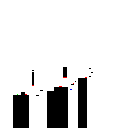
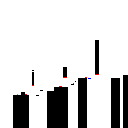
some changes to ghosts

diff --git a/src/ghost.cpp b/src/ghost.cpp
@@ -15,102 +15,12 @@ void Ghost::clear_actions()
 
 bool Ghost::maybe_add_action(double time, Vec2<double> pos, bool grounded)
 {
-    if ((time - m_last_added_action_time) >= (1.0 / m_fps)) {
+    if ((time-m_last_added_action_time) >= (1.0 / m_fps)) {
         add_action(pos, grounded);
         m_last_added_action_time = time;
         return true;
     }
     return false;
-}
-
-void Ghost::save_to_file(std::string path, bool overwrite)
-{
-    if (!overwrite) {
-        // check if file exists
-        std::ifstream file(path);
-        if (file.good()) {
-            SDL_Log("ghost: \"%s\" already exists!", path.c_str());
-            return;
-        }
-    }
-
-    std::ofstream file;
-    file.open(path, std::iostream::out | std::iostream::binary);
-
-    // write fps
-    file.write(reinterpret_cast<const char*>(&m_fps), sizeof(m_fps));
-
-    for (auto& action : m_actions) {
-        // write x and y values
-        file.write(reinterpret_cast<const char*>(&action.m_pos.x), sizeof(action.m_pos.x));
-        file.write(reinterpret_cast<const char*>(&action.m_pos.y), sizeof(action.m_pos.y));
-
-        Uint8 is_grounded = action.m_grounded;
-        file.write(reinterpret_cast<const char*>(&is_grounded), sizeof(is_grounded));
-    }
-
-    file.close();
-    SDL_Log("ghost: saved replay to file \"%s\" (%zu actions)", path.c_str(), m_actions.size());
-}
-
-void Ghost::load_from_file_e(std::string path)
-{
-    auto fs = cmrc::assets::get_filesystem();
-    cmrc::file file;
-
-    try {
-        file = fs.open(ASSETS_PATH + path);
-    } catch (std::system_error) {
-        SDL_Log("ghost: file \"%s\" not found", path.c_str());
-        return;
-    }
-
-    if (file.size() < 1) {
-        SDL_Log("ghost: invalid file \"%s\"", path.c_str());
-        return;
-    }
-
-    const char* data = file.begin();
-
-    clear_actions();
-
-    Vec2<double> current_action;
-    bool grounded = false;
-
-    // read fps
-    m_fps = *reinterpret_cast<const double*>(&data[0]);
-
-    for (size_t i = sizeof(m_fps), val_idx = 0; i < file.size();) {
-        int param = val_idx % 3;
-
-        if (param == 0 && val_idx > 0)
-            add_action(current_action, grounded);
-        if (param <= 1) {
-            // x and y position
-            Sint32 val = *reinterpret_cast<const Sint32*>(&data[i]);
-
-            if (param == 0)
-                current_action.x = val;
-            else if (param == 1)
-                current_action.y = val;
-
-            i += sizeof(val);
-        } else {
-            // grounded
-            Uint8 val = *reinterpret_cast<const Uint8*>(&data[i]);
-            grounded = val;
-            i += sizeof(val);
-        }
-
-        val_idx++;
-    }
-
-    add_action(current_action, grounded);
-
-    SDL_Log("ghost: loaded replay from file %s (%zu actions, %f fps)",
-            path.c_str(),
-            m_actions.size(),
-            m_fps);
 }
 
 void Ghost::draw(SDL_Renderer* renderer, Camera* camera, double time)
@@ -133,6 +43,7 @@ void Ghost::draw(SDL_Renderer* renderer, Camera* camera, double time)
     SDL_Rect rect;
 
     int width = utils::tile_size, height = utils::tile_size * 2;
+    float alpha = 0.2;
 
     if (action_idx < m_actions.size()-1) {
         Vec2<int> next_pos = m_actions.at(action_idx + 1).m_pos;
@@ -147,12 +58,15 @@ void Ghost::draw(SDL_Renderer* renderer, Camera* camera, double time)
         int y = round(utils::lerp(pos.y, next_pos.y, lerp_val));
         rect = { x, y, width, height };
     } else {
+        alpha += (time_at_action(m_actions.size()-1)-time);
+        alpha = utils::clamp<float>(alpha, 0.0, 1.0);
+
         rect = { pos.x, pos.y, width, height };
     }
 
     camera->translate(&rect);
 
     // draw
-    SDL_SetRenderDrawColor(renderer, 0, 0, 0, 64);
+    SDL_SetRenderDrawColor(renderer, 0, 0, 0, alpha * 255);
     SDL_RenderFillRect(renderer, &rect);
 }

diff --git a/src/game.cpp b/src/game.cpp
@@ -42,26 +42,6 @@ void Game::draw_ui(double dt)
             nk_labelf(m_ctx, NK_TEXT_LEFT, "recorded actions: %zu", m_recording_ghost.m_actions.size());
             nk_labelf(m_ctx, NK_TEXT_LEFT, "fps: %f", m_recording_ghost.m_fps);
 
-            nk_layout_row_dynamic(m_ctx, 25, 1);
-            nk_edit_string_zero_terminated(m_ctx,
-                                           NK_EDIT_FIELD,
-                                           m_ui_replay_path,
-                                           sizeof(m_ui_replay_path),
-                                           nk_filter_default);
-
-            nk_layout_row_dynamic(m_ctx, 20, 1);
-            nk_checkbox_label(m_ctx, "Overwrite", &m_ui_overwrite_file);
-            nk_layout_row_dynamic(m_ctx, 25, 1);
-
-            if (nk_button_label(m_ctx, "Save Replay")) {
-                std::string path = m_ui_replay_path;
-
-                if (path.size() == 0)
-                    return;
-
-                m_recording_ghost.save_to_file(path, m_ui_overwrite_file);
-            }
-
             nk_tree_pop(m_ctx);
         }
 
@@ -272,7 +252,6 @@ void Game::load_level()
 {
     utils::tile_size = 48;
     m_level = Level("level1.png");
-    m_playback_ghost.load_from_file_e("level1.run");
     reset();
 }
 
@@ -280,6 +259,8 @@ void Game::reset()
 {
     utils::tile_size = 48;
     m_level_start_time = m_time;
+
+    m_playback_ghost = m_recording_ghost;
     m_recording_ghost.clear_actions();
 
     for (auto& platform : m_level.m_platforms)

diff --git a/src/ghost.h b/src/ghost.h
@@ -32,8 +32,6 @@ public:
     void add_action(Vec2<double> pos, bool grounded);
     void clear_actions();
     bool maybe_add_action(double time, Vec2<double> pos, bool grounded);
-    void save_to_file(std::string path, bool overwrite);
-    void load_from_file_e(std::string path); // loads from embedded assets
     void draw(SDL_Renderer* renderer, Camera* camera, double time);
 
     std::vector<Action> m_actions;

diff --git a/src/level.h b/src/level.h
@@ -37,7 +37,7 @@ public:
     Vec2<double> m_pos;
     Vec2<double> m_size;
     Vec2<double> m_initial_pos;
-    double m_vel = -250.0; // x velocity
+    double m_vel = -300.0; // x velocity
     Uint32 m_index;
 };
 
